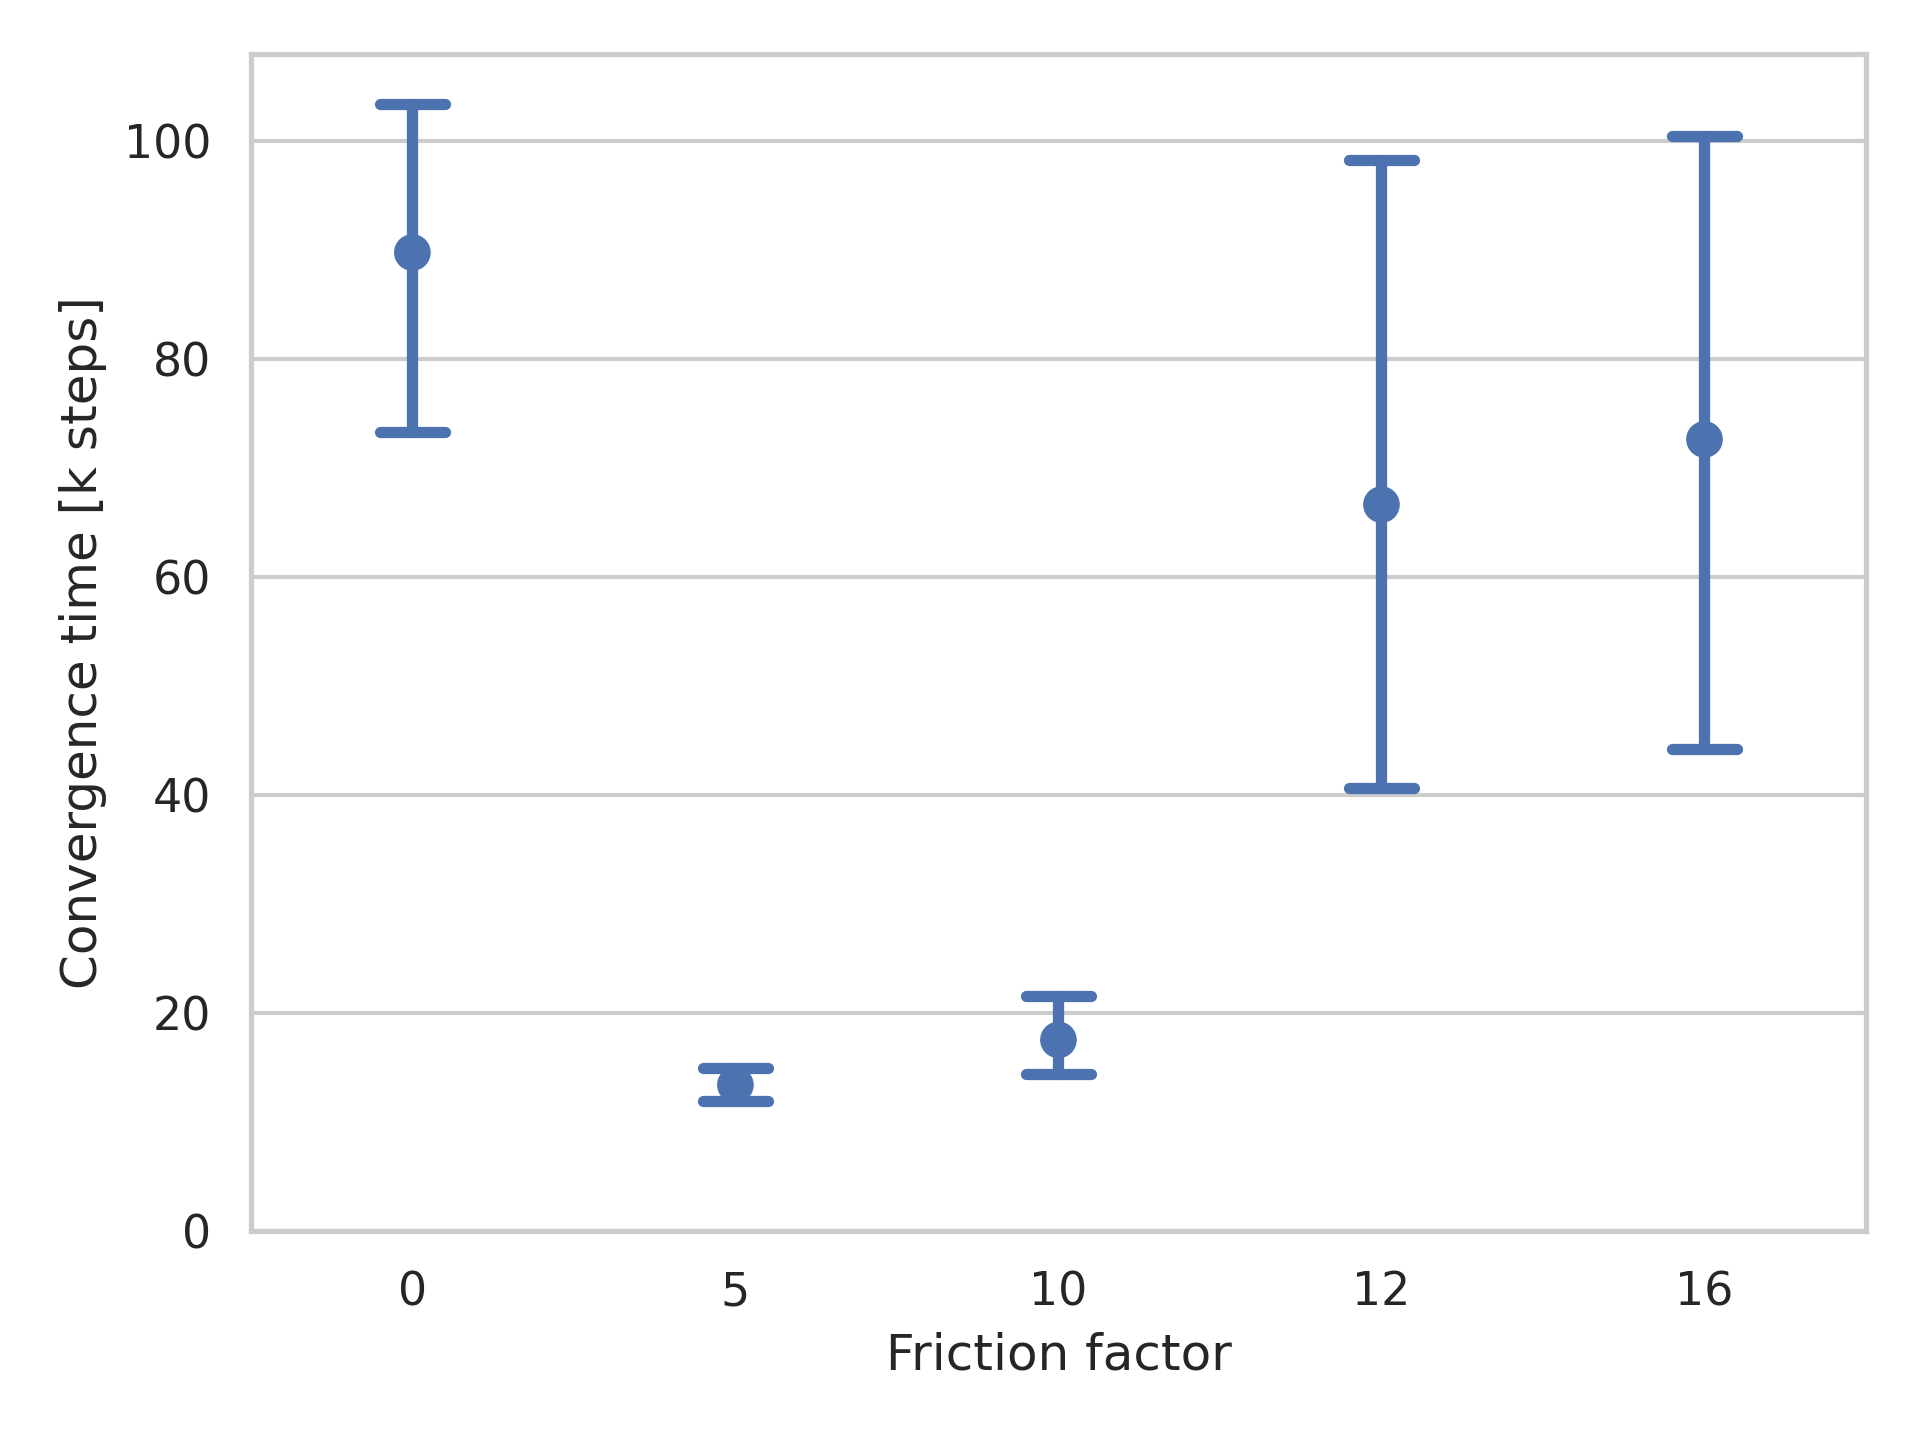
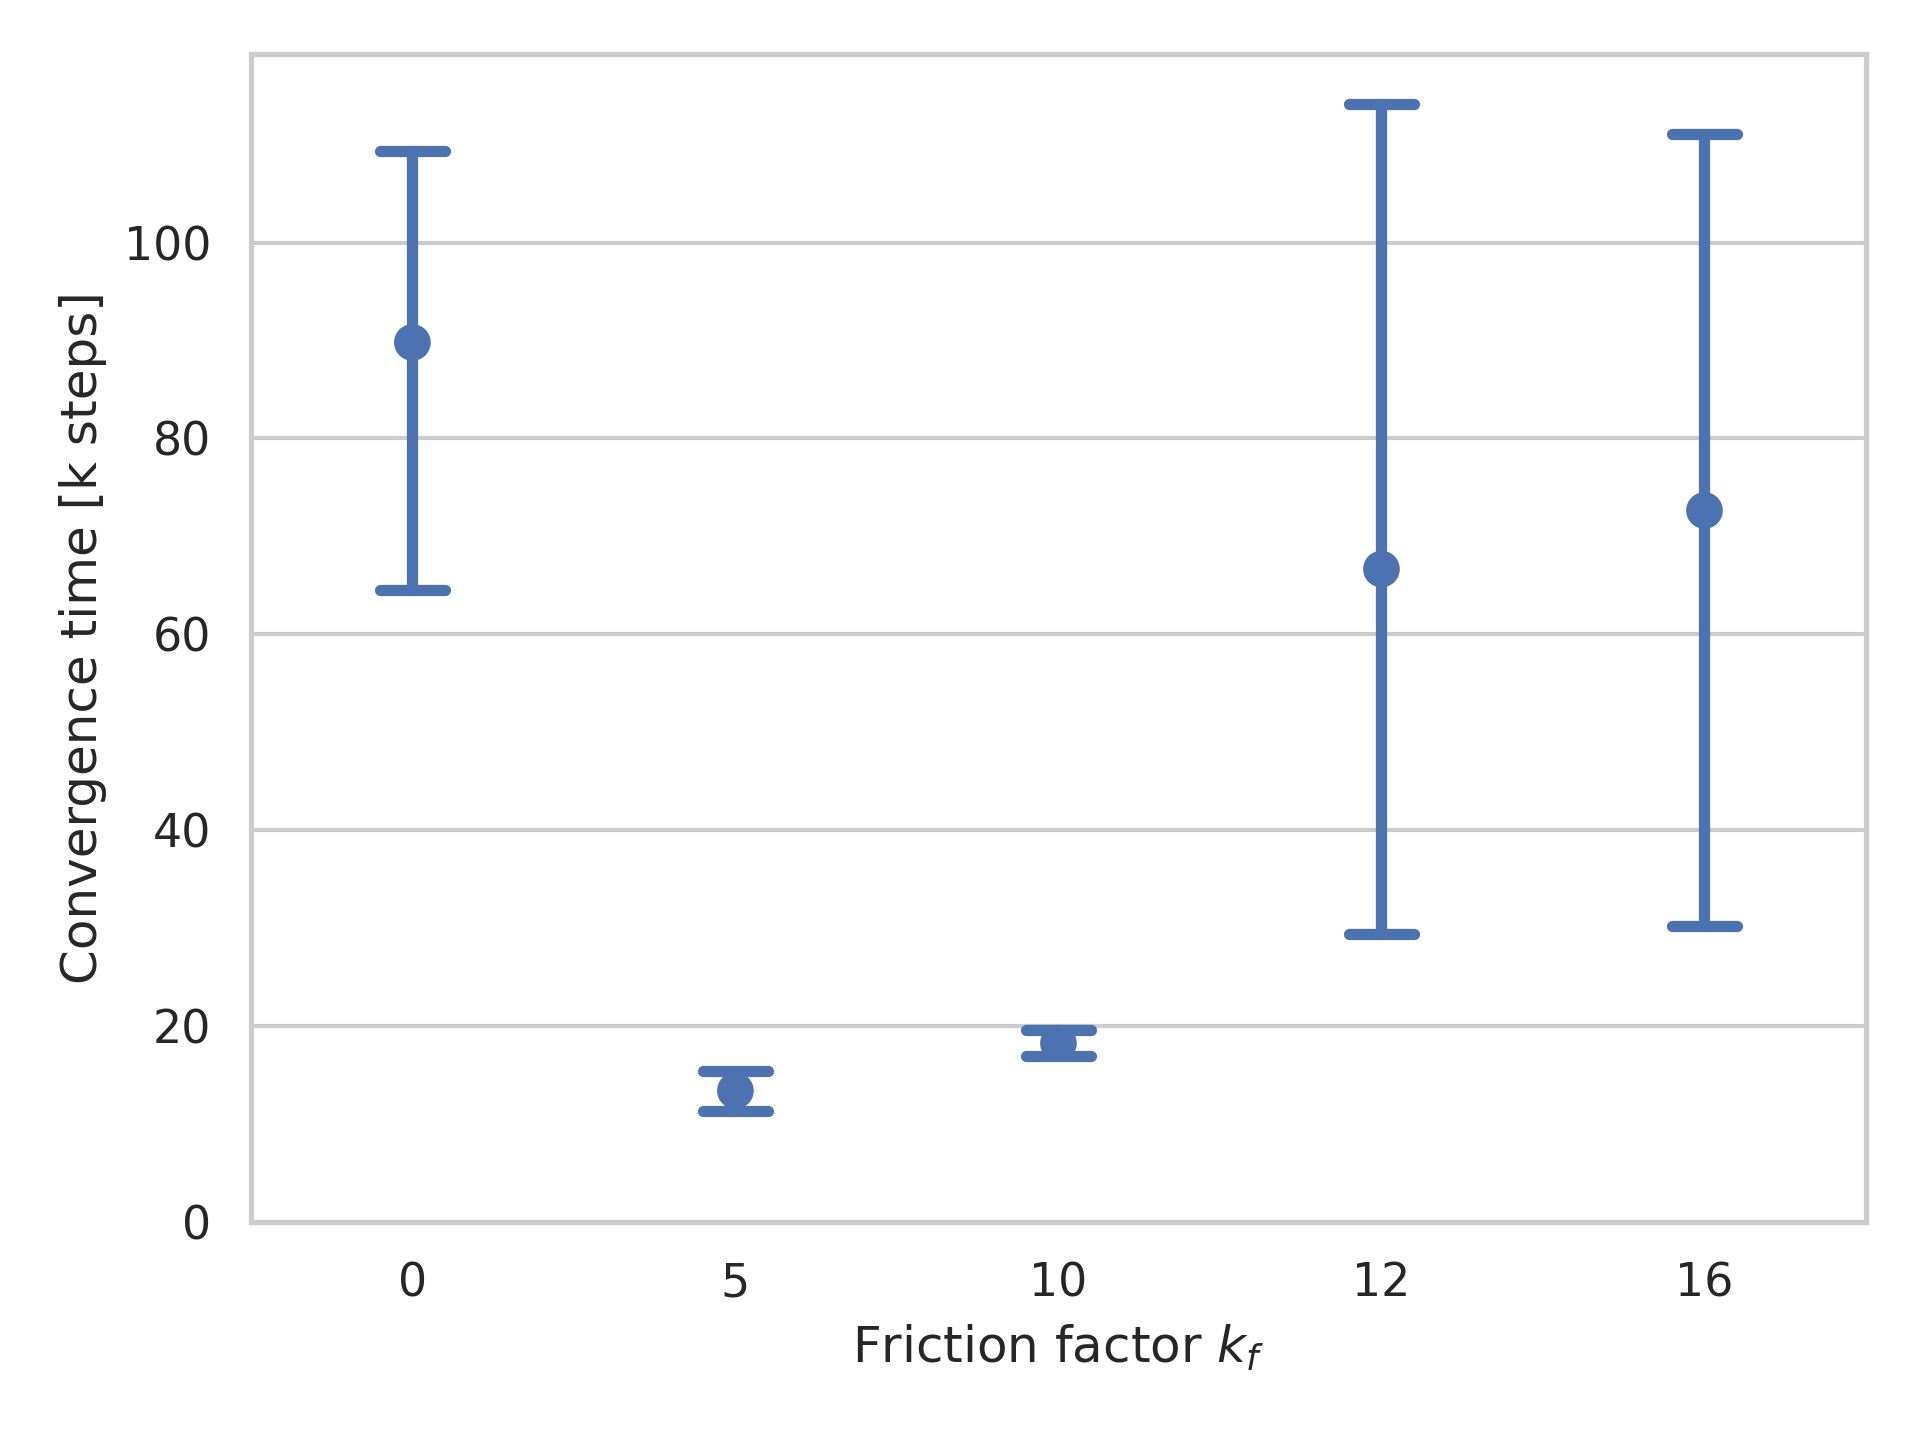
update evaluation

diff --git a/paper_docs/data_tb.py b/paper_docs/data_tb.py
@@ -73,13 +73,16 @@ def extract_data(dat, run_ids, data_id):
     return [dat[run_id][data_id] for run_id in run_ids]
 
 
-def plot_cat(dat, categories):
+def plot_cat(dat, categories, ci):
     plt.figure()
     results = {}
     for k, runs in categories.items():
         results[k] = np.array(extract_data(dat, runs, "convergence_time")) / 1000.
     df = pd.DataFrame(dict([(k, pd.Series(v)) for k, v in results.items()]))
-    ax = sns.pointplot(data=df, capsize=.2, join=False)
+    # max_index = df.idxmax()
+    # for i in range(len(max_index)):
+    #     df.at[max_index[i], max_index.keys()[i]] = np.NaN
+    ax = sns.pointplot(data=df, capsize=.2, join=False, ci=ci)
     return ax
 
 
@@ -115,24 +118,27 @@ def plot_timeseries_median(dat, run_ids):
         idx = np.where(conv_times[k] == median)[0][0]
         results = extract_data(dat, runs, "swing_up_time_series")
         result = results[idx]
-        l = list(zip(*[[int(k), v] for k, v in result.items() if int(k) > 5000]))
+        l = list(zip(*[[int(k)/1000, 1000-v] for k, v in result.items() if int(k) > 5000]))
         a = sns.lineplot(x=l[0], y=l[1], marker='o', zorder=101)
         plt.scatter(x=l[0][-1], y=l[1][-1], s=200, marker='*', color=a.get_lines()[i].get_color(), zorder=100)
         i += 1
 
-    plt.xlabel('Training time [steps]')
-    plt.ylabel('Swing-up-time [steps]')
+    plt.xlabel('Training time [k steps]')
+    plt.ylabel('Consecutive on-target steps $n_{T_e}$')
     lims = plt.xlim()
-    plt.hlines(y=250, xmin=0, xmax=lims[1], colors="green", linestyles='--')
-    plt.hlines(y=1000, xmin=0, xmax=lims[1], colors="red", linestyles='--')
-    plt.text(lims[1] // 41, 930, "Fail", {"color": "red"})
-    plt.text(lims[1] // 41, 110, "Success", {"color": "green"})
-    plt.axhspan(0, 250, color='green', alpha=0.2)
+    plt.hlines(y=750, xmin=0, xmax=lims[1], colors="green", linestyles='--')
+    # plt.hlines(y=1000, xmin=0, xmax=lims[1], colors="red", linestyles='--')
+    # plt.text(lims[1] // 41, 930, "Fail", {"color": "red"})
+    plt.text(lims[1] // 41, 930, "Success", {"color": "green"})
+    plt.axhspan(750, 1000, color='green', alpha=0.2)
     plt.xlim(0, lims[1])
-    plt.ylim(0, plt.ylim()[1])
+    plt.ylim(0, 1000)
 
 
 if __name__ == "__main__":
+
+    confidence_score = 100
+
     with open("paper_data.json", "r") as f:
         runs = json.load(f)
     with open("data.json", "r") as f:
@@ -148,11 +154,14 @@ if __name__ == "__main__":
     results = {}
     crashes = {}
     conv_times = {}
+
     for k, r in runs_eval.items():
         results[k] = extract_data(data, r, "swing_up_time_series")[0]
         crashes[k] = list(results[k].values()).count(1000.0)
+
     for i, k in enumerate(runs_fric["lo_fr"]):
         conv_times[f"low_{i + 1}"] = extract_data(data, k, "convergence_time") // 1000
+
     df = pd.DataFrame(results)
     df[df == 1000.0] = np.NaN
     ax = sns.boxplot(data=df, width=.4)
@@ -168,22 +177,24 @@ if __name__ == "__main__":
     plt.savefig("eval_plot.png", dpi=300)
     # plt.show()
 
-    ax_fric = plot_cat(data, runs_fric)
+    ax_fric = plot_cat(data, runs_fric, confidence_score)
     plt.xticks(range(5), ('0', '5', '10', '12', '16'))
-    plt.xlabel('Friction factor')
+    plt.xlabel('Friction factor $k_f$')
     plt.ylabel('Convergence time [k steps]')
     plt.ylim([0, plt.ylim()[1]])
     plt.tight_layout()
     plt.savefig("friction_plot.png", dpi=300)
 
-    ax_freeze = plot_cat(data, runs_freeze)
-    plt.xticks(range(4), (
-        'Actor 5k\n Critic 3.5k',
-        'Actor 3.5k\n Critic 3.5k',
-        'Actor 5k\n Critic 128',
-        'Actor 128\n Critic 128'
+    ax_freeze = plot_cat(data, runs_freeze, confidence_score)
+    plt.xticks(range(6), (
+        '$N_c=3500$\n$N_a=5000$',
+        '$N_c=3500$\n$N_a=3500$',
+        '$N_c=3500$\n$N_a=3500$\nTD3-delay',
+        '$N_c=5000$\n$N_a=5000$',
+        '$N_c=128$\n$N_a=128$',
+        '$N_c=128$\n$N_a=5000$'
     ))
-    plt.xlabel('Freezing combinations')
+    plt.xlabel('Optimization delay configurations')
     plt.ylabel('Convergence time [k steps]')
     plt.ylim([0, plt.ylim()[1]])
     plt.tight_layout()
@@ -193,29 +204,39 @@ if __name__ == "__main__":
     # Adding no combined
     plt.figure()
     df = pd.DataFrame(columns=("convergence_time", "bandwidth", "Method"))
-    print(df)
     for k, rs in runs_bw.items():
         d = np.array(extract_data(data, rs, "convergence_time")) / 1000.
+        # max_index = d.argmax()
+        # d[max_index] = np.NaN
         for c in d:
             df = df.append({"convergence_time": c, "bandwidth": k, "Method": "w CER"}, ignore_index=True)
 
     for k, rs in runs_bw_no_combined.items():
         d = np.array(extract_data(data, rs, "convergence_time")) / 1000.
+        # max_index = d.argmax()
+        # d[max_index] = np.NaN
         for c in d:
             df = df.append({"convergence_time": c, "bandwidth": k, "Method": "w/o CER"}, ignore_index=True)
-    ax = sns.pointplot(data=df, x="bandwidth", y="convergence_time", hue="Method", capsize=.2, join=False, dodge=0.25, ci=95)
-    # ax = sns.scatterplot(data=df, x="bandwidth", y="convergence_time", hue="Method")
 
-    plt.xticks(range(4), ('0.06', '0.5', '5', '>50'))
+    ax = sns.pointplot(data=df, x="bandwidth", y="convergence_time", hue="Method", capsize=.2, join=False, dodge=0.25, ci=confidence_score)
+
+    # ax = sns.scatterplot(data=df, x="bandwidth", y="convergence_time", hue="Method")
+    # ax = sns.boxplot(data=df, x="bandwidth", y="convergence_time", hue="Method")
+
+    ylims = plt.ylim()
+    plt.vlines(2.5, 0, ylims[1], colors="black", linestyles="--")
+    plt.text(0.5, 3, "Low BW")
+    plt.text(4, 3, "High BW")
+    plt.xticks(range(7), ('0.06', '0.1', '0.5', '5', '10', '15', '>50'))
     plt.xlabel('Bandwidth [Mbit/s]')
     plt.ylabel('Convergence time [k steps]')
-    plt.ylim([0, plt.ylim()[1]])
+    plt.ylim([0, ylims[1]])
     plt.tight_layout()
     plt.savefig("bandwidth_plot.png", dpi=300)
 
     fig = plt.figure(figsize=(15, 4))
     plot_timeseries_median(data, runs['data_fric_new'])
-    leg = plt.legend(["0", "5", "10", "12", "16"], title="Friction factor", loc='upper right', bbox_to_anchor=(1, 0.95))
+    leg = plt.legend(["0", "5", "10", "12", "16"], title="Friction factor", loc='lower right')
     plt.tight_layout()
     plt.savefig("real_good.png", dpi=300)
     plt.show()

diff --git a/realips/monitor/monitor.py b/realips/monitor/monitor.py
@@ -47,6 +47,7 @@ class ModelStats:
         self.consecutive_on_target_steps = 0
         self.cart_positions = []
         self.actions = []
+        self.critic_losses = []
         self.pendulum_angele = []
         self.total_steps = 0
         self.converge_eval_episode = 0
@@ -82,7 +83,14 @@ class ModelStats:
         self.cart_positions = []
         self.pendulum_angele = []
         self.actions = []
+        self.critic_losses = []
         self.survived = True
+
+    def get_average(self, data):
+        if len(data) == 0:
+            return 0
+        else:
+            return sum(data) / len(data)
 
     def get_average_reward(self):
         if len(self.reward) == 0:
@@ -111,18 +119,22 @@ class ModelStats:
         if crash:
             self.survived = False
 
+    def add_critic_loss(self, loss):
+        self.critic_losses.append(loss)
+
     def get_steps(self):
         return len(self.reward)
 
     def training_monitor(self, episode):
 
-        average_reward, on_target_steps, average_distance_score, survived, can_swing_up, swing_up_time = self.log_data()
+        average_reward, on_target_steps, average_distance_score, survived, can_swing_up, swing_up_time, critic_loss = self.log_data()
         with self.training_log_writer.as_default():
             tf.summary.scalar('Average_Reward', average_reward, self.total_steps)
             tf.summary.scalar('On_target_step', on_target_steps, self.total_steps)
             tf.summary.scalar('Can_swing_up', can_swing_up, self.total_steps)
             tf.summary.scalar('swing_up_time', swing_up_time, self.total_steps)
             tf.summary.scalar('distance_score', average_distance_score, self.total_steps)
+            tf.summary.scalar('critic_loss', critic_loss, self.total_steps)
             tf.summary.scalar('distance_score_and_survived', average_distance_score * survived, self.total_steps)
 
         print("Training:=====>  Episode: ", episode, " Total steps:",
@@ -130,7 +142,7 @@ class ModelStats:
 
     def evaluation_monitor_scalar(self, episode):
 
-        average_reward, on_target_steps, average_distance_score, survived, can_swing_up, swing_up_time = self.log_data()
+        average_reward, on_target_steps, average_distance_score, survived, can_swing_up, swing_up_time, _ = self.log_data()
 
         with self.evaluation_log_writer.as_default():
             tf.summary.scalar('Average_Reward', average_reward, self.total_steps)
@@ -150,7 +162,7 @@ class ModelStats:
 
     def evaluation_monitor_image(self, ep):
 
-        average_reward, on_target_steps, average_distance_score, survived, can_swing_up, swing_up_time = self.log_data()
+        average_reward, on_target_steps, average_distance_score, survived, can_swing_up, swing_up_time, _ = self.log_data()
         tf_image = self.plot_to_image(average_reward, on_target_steps, average_distance_score)
 
         with self.evaluation_log_writer.as_default():
@@ -164,7 +176,8 @@ class ModelStats:
         survived = self.get_survived()
         can_swing_up = self.consecutive_on_target_steps >= self.params.can_swing_up_steps
         swing_up_time = self.get_steps() - self.consecutive_on_target_steps if can_swing_up else self.params.max_episode_steps
-        return average_reward, on_target_steps, average_distance_score, survived, can_swing_up, swing_up_time
+        critic_loss = self.get_average(self.critic_losses)
+        return average_reward, on_target_steps, average_distance_score, survived, can_swing_up, swing_up_time, critic_loss
 
     def random_set_targets(self):
         x_target = np.random.uniform(-self.physics.params.x_threshold, self.physics.params.x_threshold)

diff --git a/realips/remote/cloud_trainer.py b/realips/remote/cloud_trainer.py
@@ -86,6 +86,7 @@ class CloudSystem(IpsSystem):
             self.sending_time = (len(packet) * 8 / 2 ** 20) / self.params.cloud_params.artificial_bandwidth + \
                                 self.params.cloud_params.artificial_ping / 1000 - ethernet_time
             print(f"Setting sending time for actor weights to {self.sending_time} seconds")
+            print(f"Update actor weights every {self.sending_time * 30} steps")
         else:
             self.sending_time = 0
 
@@ -213,7 +214,8 @@ class CloudSystem(IpsSystem):
                 self.optimize_condition.acquire()
                 self.optimize_condition.wait()
 
-            self.trainer.optimize()
+            loss_critic = self.trainer.optimize()
+            self.model_stats.add_critic_loss(loss_critic)
             optimize_times += 1
             self.trainable -= 1
 
@@ -251,8 +253,6 @@ class CloudSystem(IpsSystem):
 
     def send_weights_and_noise_factor(self, weights, noise_factor):
         weights_and_noise_pack = pickle.dumps([weights, noise_factor])
-        if self.params.cloud_params.artificial_bandwidth != -1:
-            time.sleep(self.sending_time)
         self.redis_connection.publish(channel=self.params.redis_params.ch_edge_weights, message=weights_and_noise_pack)
 
     def receive_edge_trajectory(self):

diff --git a/realips/trainer/trainer_ddpg.py b/realips/trainer/trainer_ddpg.py
@@ -35,7 +35,7 @@ class DDPGTrainer:
         for i in range(self.params.training_epoch):
 
             if self.params.pre_fill_exp > self.replay_mem.get_size():
-                return
+                return 0
 
             self.replay_memory_mutex.acquire()
             mini_batch = self.replay_mem.sample(self.params.batch_size)
@@ -83,6 +83,8 @@ class DDPGTrainer:
                     actor_gradients = tape.gradient(actor_value, self.agent.actor.trainable_variables)
                     self.optimizer_actor.apply_gradients(zip(actor_gradients, self.agent.actor.trainable_variables))
             self.agent.soft_update()
+
+            return tf.reduce_mean(loss_critic).numpy()
 
     def load_weights(self, path):
         self.agent.load_weights(path)

diff --git a/main_edgecontrol.py b/main_edgecontrol.py
@@ -3,6 +3,7 @@ from realips.remote.edge_quanser import QuanserEdgeControlParams, QuanserEdgeCon
 
 from utils import *
 
+
 def main(p, eval=None):
     edge = QuanserEdgeControl(p, eval)
     edge.run()
